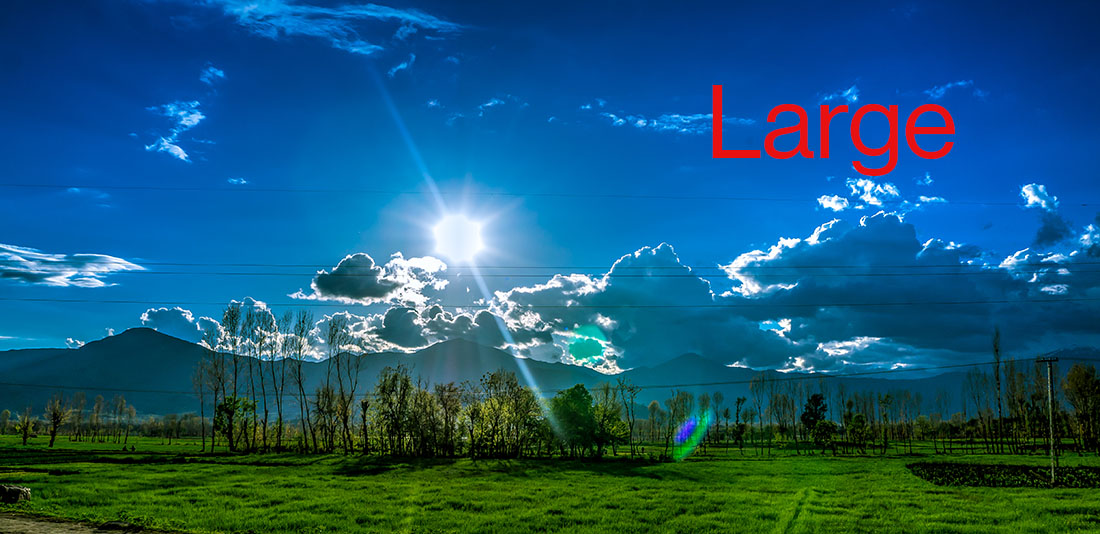
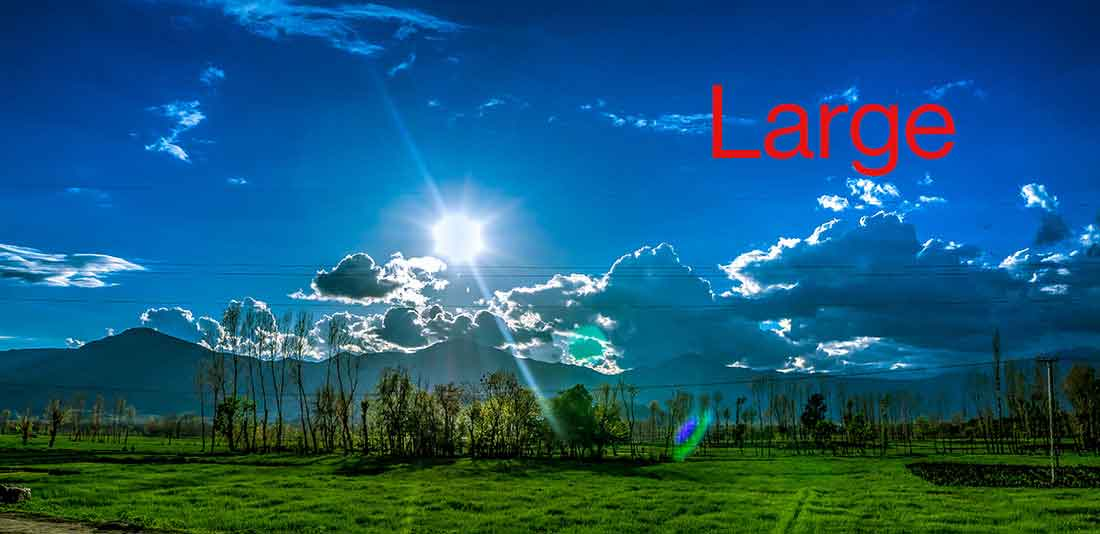
week 6 optimized images

diff --git a/lesson6/preston-6.html b/lesson6/preston-6.html
@@ -84,7 +84,7 @@
         </div>
 
         <div class="article">
-            <img id="articleImg"  src="images/preston-article-img.jpeg" alt="squirrel biting hand">
+            <img id="articleImg"  src="images/preston-article-img.jpg" alt="squirrel biting hand">
             <section><h3>Article Title</h3>
             <h4>by John Doe</h4>
             <p>Lorem ipsum dolor sit amet, consectetur adipiscing elit. Quisque diam magna, imperdiet sed turpis sed, porta molestie tellus. Nam in varius nisi, id blandit ligula. Etiam luctus pulvinar tempus. Interdum et malesuada fames ac ante ipsum primis in faucibus. Maecenas elementum tristique leo in luctus. Nunc dapibus augue nec mauris faucibus ultricies quis eu justo. Nulla vitae ante sed turpis lacinia congue at sed quam. Vestibulum suscipit faucibus leo, vel varius ipsum efficitur vel. Sed feugiat ultrices volutpat. Nam vitae dignissim neque, id faucibus ex. Integer tellus augue, molestie vitae purus sed, pharetra vehicula elit. Mauris sed faucibus justo, in feugiat justo. Nullam tempor tincidunt scelerisque. Suspendisse lectus tortor, accumsan ac feugiat et, aliquam ac dui.
